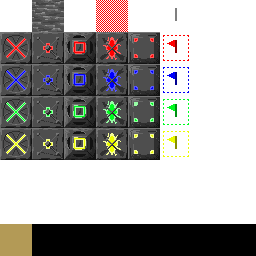
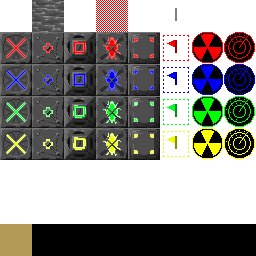
started work on special buildings

Changed region(s): [[0.75, 0.125, 1.0, 0.625]]

diff --git a/client/game.c b/client/game.c
@@ -30,7 +30,7 @@ void game_view_init() {
 	building_place=-1;
 	
 	game_attacklist_blink_semaphore=0;
-	
+	/*Game sidebar*/
 	panelist_game_sidebar.pane=ui_pane_create(platform.screen_w-SIDEBAR_WIDTH, 0, SIDEBAR_WIDTH, platform.screen_h, NULL);
 	ui_pane_set_root_widget(panelist_game_sidebar.pane, ui_widget_create_vbox());
 	panelist_game_sidebar.next=&panelist_game_abilitybar;
@@ -45,7 +45,7 @@ void game_view_init() {
 	game_sidebar_label_build[1]=ui_widget_create_label(font_std, T("Attacker"));
 	game_sidebar_label_build[2]=ui_widget_create_label(font_std, T("Pylon"));
 	game_sidebar_label_build[3]=ui_widget_create_label(font_std, T("Wall"));
-	game_sidebar_label_build[4]=ui_widget_create_label(font_std, T("Build site"));
+	game_sidebar_label_build[4]=ui_widget_create_label(font_std, T("Special building"));
 	int i;
 	for(i=0; i<5; i++) {
 		game_sidebar_button_build[i]=ui_widget_create_button(game_sidebar_label_build[i]);
@@ -62,7 +62,20 @@ void game_view_init() {
 	ui_vbox_add_child(panelist_game_sidebar.pane->root_widget, game_sidebar_progress_health, 0);
 	if(platform.platform&DARNIT_PLATFORM_PANDORA)
 		ui_vbox_add_child(panelist_game_sidebar.pane->root_widget, game_sidebar_minimap, 0);
-		
+	
+	/*Special buildings for control points*/
+	panelist_game_specialbar.pane=ui_pane_create(config.screen_w-SIDEBAR_WIDTH*2, game_sidebar_button_build[4]->y-64, SIDEBAR_WIDTH, 128, ui_widget_create_vbox());
+	panelist_game_specialbar.next=&panelist_game_abilitybar;
+	game_specialbar_label_build[0]=ui_widget_create_label(font_std, T("Construction yard"));
+	game_specialbar_label_build[1]=ui_widget_create_label(font_std, T("Missile silo"));
+	game_specialbar_label_build[2]=ui_widget_create_label(font_std, T("Radar"));
+	for(i=0; i<3; i++) {
+		game_specialbar_button_build[i]=ui_widget_create_button(game_specialbar_label_build[i]);
+		ui_vbox_add_child(panelist_game_specialbar.pane->root_widget, game_specialbar_button_build[i], 0);
+		game_specialbar_button_build[i]->event_handler->add(game_specialbar_button_build[i], game_sidebar_button_build_click, UI_EVENT_TYPE_UI_WIDGET_ACTIVATE);
+	}
+	
+	/*Special abilities*/
 	panelist_game_abilitybar.pane=ui_pane_create(2, 64, 52, 128+44, ui_widget_create_vbox());
 	panelist_game_abilitybar.next=NULL;
 	ability[0].name=T("Flare");
@@ -88,6 +101,7 @@ void game_view_init() {
 }
 
 void game_abilitybar_button_click(UI_WIDGET *widget, unsigned int type, UI_EVENT *e) {
+	//TODO: clean up
 	if(widget==ability[0].button) {
 		if(building_place==PLACE_FLARE)
 			building_place=-1;
@@ -108,8 +122,6 @@ void game_abilitybar_button_click(UI_WIDGET *widget, unsigned int type, UI_EVENT
 }
 
 void game_sidebar_minimap_mouse_down(UI_WIDGET *widget, unsigned int type, UI_EVENT *e) {
-	/*if(type!=UI_EVENT_TYPE_MOUSE_DOWN)
-		return;*/
 	int x=e->mouse->x-widget->x;
 	int y=e->mouse->y-widget->y;
 	darnitMapCameraMove(map, (map_w*x/widget->w)-platform.screen_w/2, (map_h*y/widget->h)-platform.screen_h/2);
@@ -124,7 +136,12 @@ void game_sidebar_button_build_click(UI_WIDGET *widget, unsigned int type, UI_EV
 	UI_PROPERTY_VALUE v;
 	int i=0;
 	// Find the building number.
-	for(; widget!=game_sidebar_button_build[i]; i++);
+	for(; widget!=game_sidebar_button_build[i]; i++)
+		if(i>=3) {
+			//Special buildings
+			panelist_game_sidebar.next=panelist_game_sidebar.next==&panelist_game_abilitybar?&panelist_game_specialbar:&panelist_game_abilitybar;
+			return;
+		}
 	if(!building_cancel) {
 		if(building_ready==BUILDING_SCOUT+i) { // If the building is ready, place it.
 			building_place=building_ready;

diff --git a/client/game.h b/client/game.h
@@ -36,6 +36,10 @@ UI_WIDGET *game_sidebar_progress_build;
 UI_WIDGET *game_sidebar_progress_shield;
 UI_WIDGET *game_sidebar_progress_health;
 
+struct UI_PANE_LIST panelist_game_specialbar;
+UI_WIDGET *game_specialbar_button_build[3];
+UI_WIDGET *game_specialbar_label_build[3];
+
 int building_place;
 int building_ready;
 int building_cancel;
